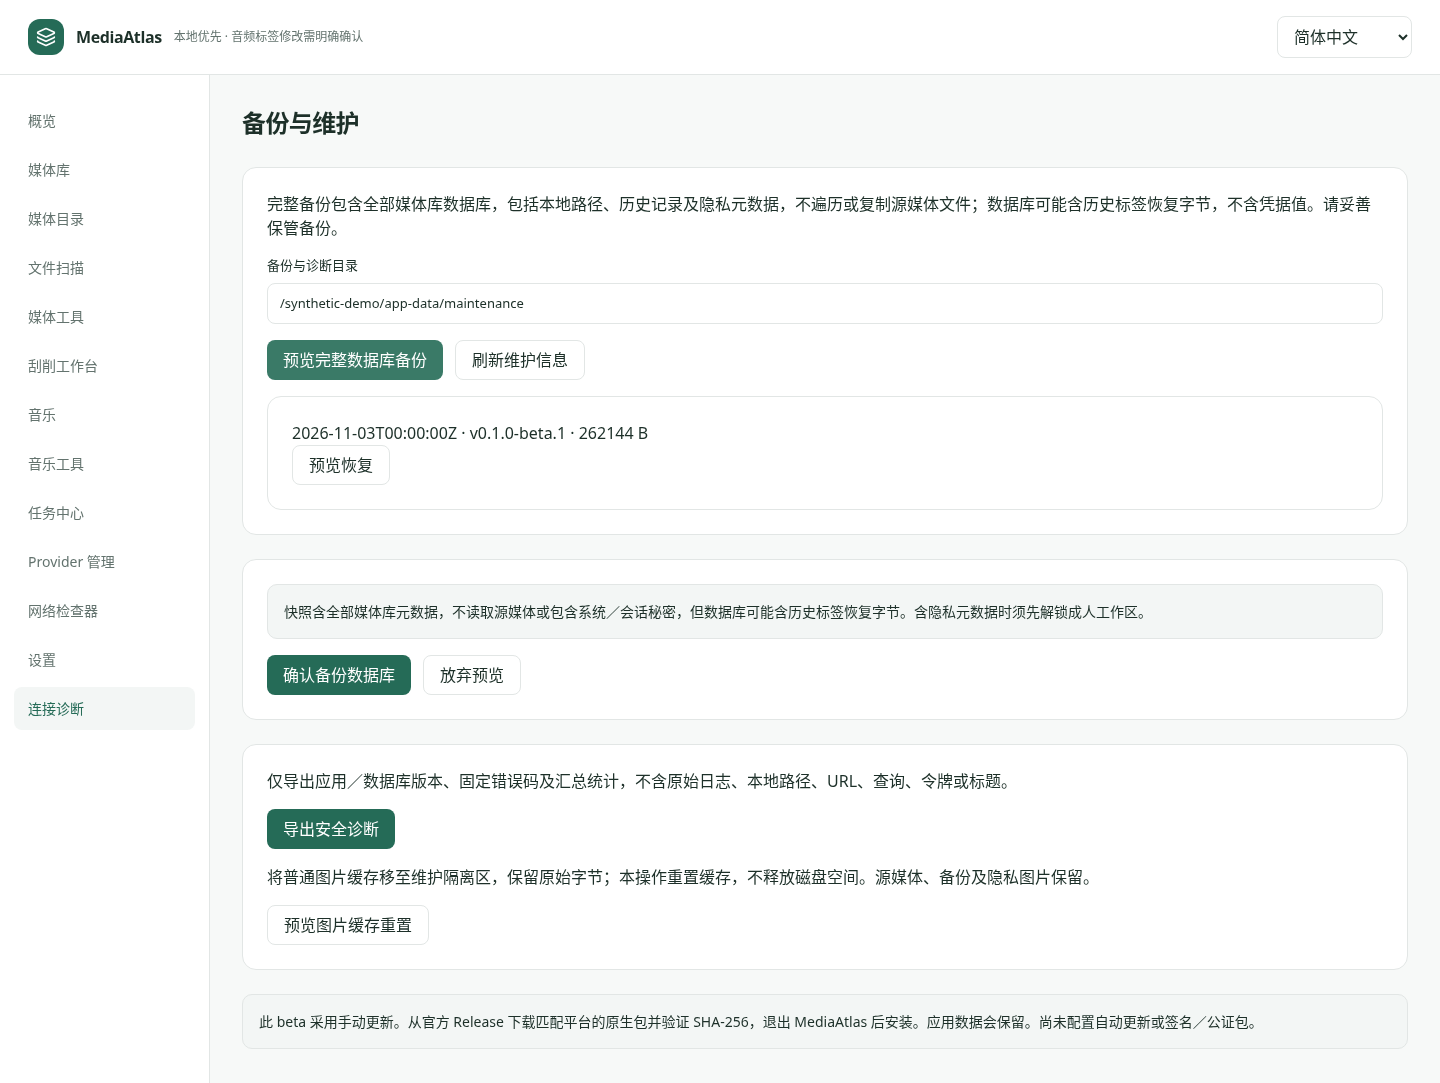
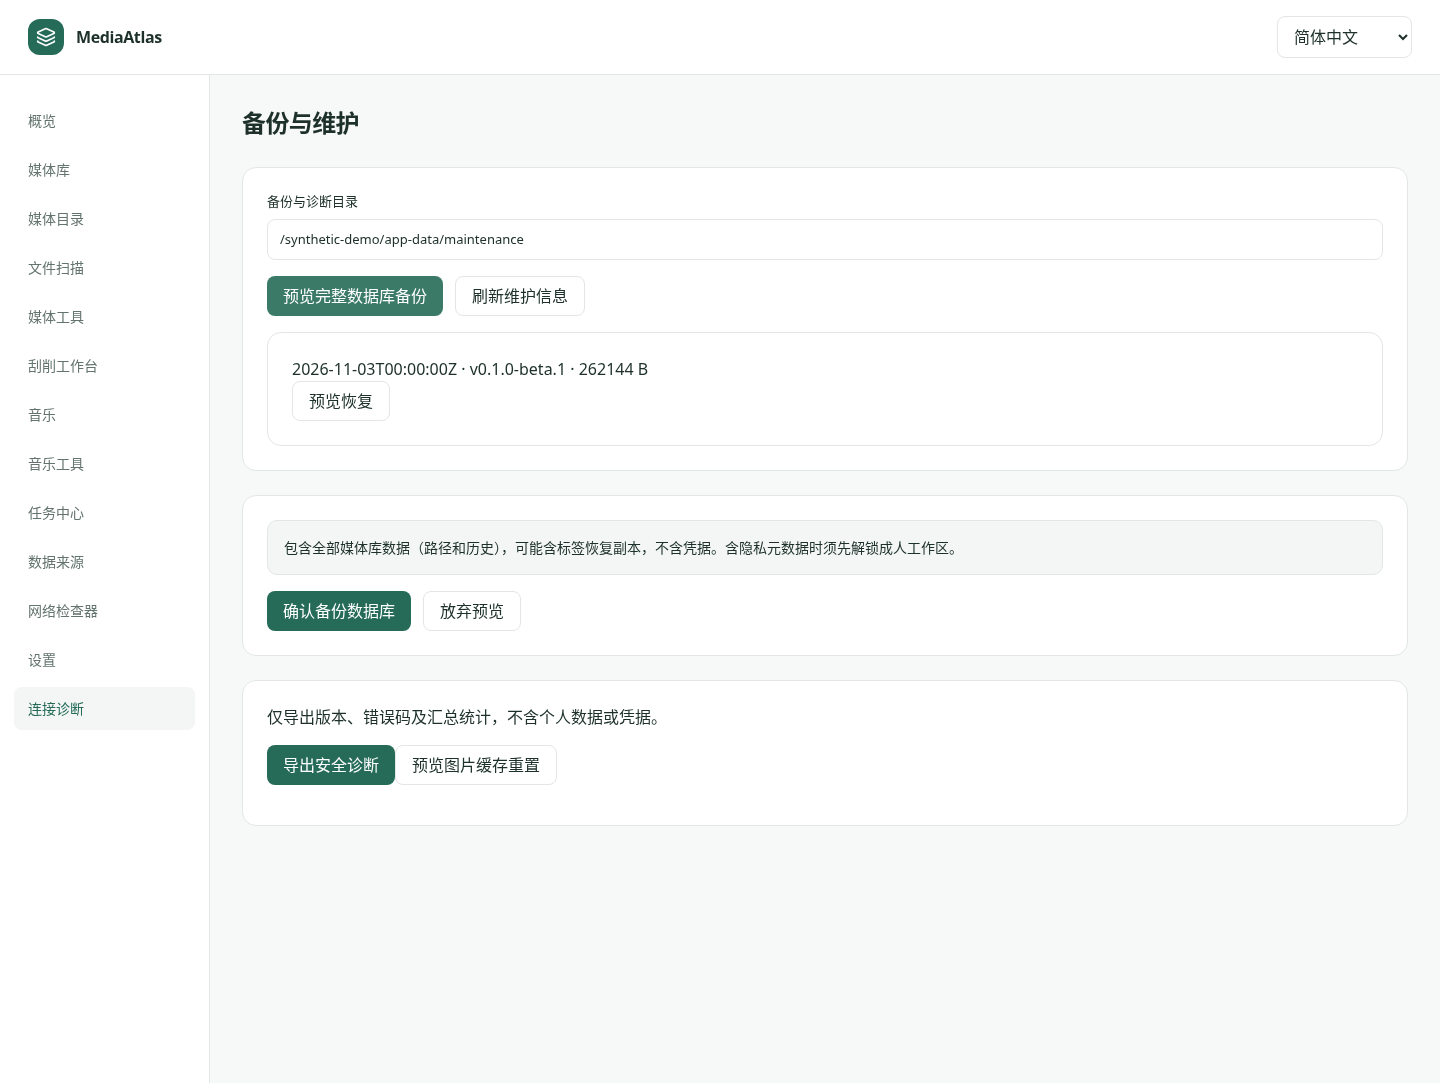
docs: refresh native and browser screenshots for concise UI

diff --git a/screenshots/README.md b/screenshots/README.md
@@ -1,35 +1,19 @@
 # MediaAtlas 0.1.0-beta.1 截图
 
-本目录的 `browser-mock-*` 图片是 **真实 Chromium 页面截图 + 明确合成的 Mock IPC 演示数据**，不是原生桌面、实际媒体扫描、安装、OS keyring 或 Provider 联网验收证据。截图由当前应用实际 React 页面渲染，未使用 ImageGen、图像修补、拼接或伪造 UI。版本 `0.1.0-beta.1`，语言 `zh-CN`，视口 1440 × 1080，长页面采用完整页面截图。
+本轮全部 10 张截图对应应用源码提交 **`d50b4dd03c15e45428c4b455f3e8755d40732a48`**，浏览器 5 张与原生 5 张均已重拍。更新后的界面已移除冗余介绍和页头副标签。截图及报告随后单独提交；生成截图会让 `screenshots/` 变更，不把该时刻整棵工作树称作 clean。
 
-所有 `Synthetic Demo` 电影、专辑、艺术家、路径和备份记录均为脚本生成，不对应用户文件；海报缺失时保留应用真实占位样式。成人入口关闭，认证状态未配置，密码输入为空。维护截图只执行合成备份预览，没有确认写入或恢复。
+| 页面 | 原生 Linux · 英文 | 浏览器 Mock · 中文 |
+| --- | --- | --- |
+| 媒体库 | [native-linux-01-library.png](native-linux-01-library.png) | [browser-mock-01-library.png](browser-mock-01-library.png) |
+| 媒体工具 | [native-linux-02-tools.png](native-linux-02-tools.png) | [browser-mock-02-tools.png](browser-mock-02-tools.png) |
+| 音乐 | [native-linux-03-music.png](native-linux-03-music.png) | [browser-mock-03-music.png](browser-mock-03-music.png) |
+| 设置 | [native-linux-04-settings.png](native-linux-04-settings.png) | [browser-mock-04-settings.png](browser-mock-04-settings.png) |
+| 备份与维护 | [native-linux-05-maintenance.png](native-linux-05-maintenance.png) | [browser-mock-05-maintenance.png](browser-mock-05-maintenance.png) |
 
-| 页面 | 实际截图 |
-| --- | --- |
-| 只读媒体库与筛选 | [browser-mock-01-library.png](browser-mock-01-library.png) |
-| 独立媒体工具与整理配置 | [browser-mock-02-tools.png](browser-mock-02-tools.png) |
-| 独立音乐媒体库 | [browser-mock-03-music.png](browser-mock-03-music.png) |
-| 来源认证、语言与隐私设置 | [browser-mock-04-settings.png](browser-mock-04-settings.png) |
-| 数据库备份预览、安全诊断与缓存维护 | [browser-mock-05-maintenance.png](browser-mock-05-maintenance.png) |
+`native-linux-*` 直接捕获 Ubuntu 22.04 容器中真实 Tauri release 应用的 X11 窗口，使用系统 WebKitGTK 4.1、DBus、Xvfb、普通 UID 1000 和独立临时应用数据目录。窗口 1440 × 1080，没有窗口管理器装饰；未禁用 WebKit sandbox 或 TLS 校验，没有 Mock IPC、调试脚本注入或图片修补。合成影片通过此前真实 Root → 扫描 → 预览 → 明确两步确认进入库，本轮复用该数据库及已经验证的备份，仅重拍界面。音乐为空状态，未虚构原生专辑记录。凭据未配置、密码为空，成人入口关闭。完成截图后使用标准 `WM_PROTOCOLS / WM_DELETE_WINDOW` 关窗，应用与 DBus session 退出码为 0。
 
-每张图片都已实际查看，确认内容非空、没有 loading/error 提示；自动脚本同时断言页面无 JavaScript 错误、无错误告警、密码为空、没有确认/执行/保存/导入调用。机器可读记录见 [browser-capture-report.json](browser-capture-report.json)。
+`browser-mock-*` 是真实 Chromium 页面截图，使用脚本生成的 `Synthetic Demo` 电影、专辑、艺术家、路径和备份响应。它们只证明浏览器渲染，不证明真实后端、OS keyring 或原生安装成功。中文视口 1440 × 1080，长页面采用完整页面截图；不显示真实用户文件或成人图像，没有确认写入、恢复、保存认证或导入调用。
 
-复现：启动当前仓库 `pnpm dev:web`（端口 1420），安装 Playwright/Chromium 后执行 `node screenshots/capture-browser.cjs`。脚本默认使用本次执行环境的 `/opt/codex/cua_node/lib/node_modules/playwright` 和 `/usr/bin/chromium`；其他环境可设置 `PLAYWRIGHT_MODULE` 和 `CHROMIUM_PATH` 指向现有安装。Mock 仅注入截图用浏览器进程，不改产品代码或真实桌面凭据。
+所有图片都已实际查看，内容非空，没有 loading 或错误告警，未使用 ImageGen、拼接或伪造 UI。模式、源码提交、二进制/图片 SHA-256 和验收边界分别见 [native-capture-report.json](native-capture-report.json) 与 [browser-capture-report.json](browser-capture-report.json)。本地原生候选不等同 GitHub Release 可用包，截图不替代 Windows/macOS 实机、媒体播放、实时 Provider 或 keyring 保存验收。
 
-## 真实原生 Linux 应用
-
-新增 `native-linux-*` 为 **真实 Tauri release 应用 + 真实 Rust/SQLite 后端** 截图。使用标准 Ubuntu 22.04 容器中的系统 WebKitGTK 4.1、DBus 和 Xvfb `:99`，以 UID 1000 运行，窗口 1440 × 1080、`en-US`。未禁用 WebKit sandbox 或 TLS 校验，没有 Mock IPC、调试脚本注入或图像修改。ImageMagick 直接捕获实际应用 X11 窗口；未运行窗口管理器，图片不含 OS 标题栏。
-
-这次使用临时独立 `XDG_DATA_HOME`。通过真实 UI 添加 `Synthetic Demo Library` → 扫描临时生成的 dummy 视频及 NFO → 查看候选 → 明确两步确认入库，得到一条 `Synthetic Demo Mountain Journey`；源字节保持原样。dummy 文件仅用于索引演示，不是可播放影片，未尝试播放。音乐页展示该真实临时库的空状态，没有植入虚构的原生专辑数据。设置页凭据未配置、输入为空，成人入口关闭。
-
-| 原生页面 | 实际截图 |
-| --- | --- |
-| 已确认的合成 NFO 资源 | [native-linux-01-library.png](native-linux-01-library.png) |
-| 真实本地文件详情与整理配置 | [native-linux-02-tools.png](native-linux-02-tools.png) |
-| 独立音乐库真实空状态 | [native-linux-03-music.png](native-linux-03-music.png) |
-| 实际来源认证设置（无凭据） | [native-linux-04-settings.png](native-linux-04-settings.png) |
-| 真实备份成功状态 | [native-linux-05-maintenance.png](native-linux-05-maintenance.png) |
-
-维护页实际执行 Preview → Confirm 生成 602,112 字节 SQLite 一致备份，界面显示 `Backup saved.`；额外核验 manifest SHA-256、`PRAGMA integrity_check=ok`、一条合成媒体记录及源文件字节保全。五张原生图片均实际查看，内容非空，没有 loading 或错误告警。详情、图片哈希与二进制 SHA-256 见 [native-capture-report.json](native-capture-report.json)。
-
-这些原生图来自当前本地尚未提交的 `0.1.0-beta.1` 候选，不能替代 GitHub Release 产物、Windows/macOS 实机、媒体播放、实时 Provider 或 keyring 认证验收。初始容器缺少 UID 1000 的 passwd 条目，DBus 曾发出认证警告；随后已建立标准普通账户，但本次未测试保存 keyring。截图完成后首次使用 `xdotool windowclose`（实际为 `XDestroyWindow`）直接毁窗，触发 GDK `BadWindow`、退出码 133，属于关闭自动化方法错误。随后使用同一临时数据目录重启真实应用，发送标准 `WM_PROTOCOLS / WM_DELETE_WINDOW` X11 ClientMessage 模拟正常关窗，应用及 DBus session **退出码 0**，进程已停止且合成数据/备份保留。这个复核不需要窗口管理器，也未修改产品或禁用 sandbox；报告保留了两次测试的准确边界。
+浏览器复现：启动 `pnpm dev:web`（端口 1420），执行 `node screenshots/capture-browser.cjs`。其他环境可设置 `PLAYWRIGHT_MODULE` 和 `CHROMIUM_PATH` 指向已安装的 Playwright/Chromium。脚本记录实际源码提交，并独立检查应用源码输入是否相对该提交发生改变。

diff --git a/docs/acceptance/phase-8.md b/docs/acceptance/phase-8.md
@@ -21,7 +21,7 @@
 
 | 检查 | 实际结果 |
 | --- | --- |
-| `pnpm check` | 通过：Biome、TypeScript、156 tests / 25 files、生产构建；主 bundle 491.98 kB |
+| `pnpm check` | 通过：Biome、TypeScript、156 tests / 25 files、生产构建；主 bundle 485.75 kB（界面精简后） |
 | `cargo fmt --all -- --check` | 通过 |
 | `cargo clippy --workspace --all-targets --locked -- -D warnings` | 通过：完整 workspace/Tauri/测试，0 warnings |
 | `cargo test --workspace --locked` | 通过：303 项，0 失败（210 infrastructure unit）；不计 0 项 doc-tests |
@@ -44,10 +44,12 @@ SQLite VM progress handler 每 4,096 指令检查取消、120 秒预算与旧 gr
 
 真实 Windows/macOS 安装/更新/卸载/默认应用打开、系统 keyring、真实 Provider 账号与可信代理仍 pending。Linux 真实标准发行环境构建、WebKit native 启动/截图按实际执行记录；浏览器 Mock UI 截图明确标注。媒体库没有内置播放器/FFmpeg runtime。测试不操作用户真实媒体。
 
-用户要求的应用截图已实际交付 [screenshots](../../screenshots/README.md)：5 页 Chromium 实际渲染与明确 Synthetic Demo/Mock IPC，逐张 view 验证非空、无 loading/error，密码为空且无执行/保存/导入。版本 0.1.0-beta.1，非原生或真实用户媒体验收；原生截图按后续真实执行补充。
[1 lines of base64/hex data omitted]
 
 Linux 本地候选实际验证：标准 Ubuntu 22.04 内使用自身 `/usr` WebKitGTK/GTK/DBus 与 glibc 2.35，不继承宿主 sysroot 环境；`.deb` 16,095,924 bytes，包内 0.1.0-beta.1/amd64，ELF x86_64、最大 GLIBC 符号需求 2.34，动态依赖系统 WebKitGTK 4.1/GTK3/libdbus。拆包没有其他 ELF/so 或浏览器引擎/FFmpeg，全部许可逐文件 SHA 校验通过。真实 dpkg 安装后，非 root 的 Tauri/WebKitGTK+Xvfb 运行、合成 NFO/临时媒体确认、备份与标准 WM_DELETE_WINDOW 退出 0 均执行；同版本重装及卸载后，专用 synthetic XDG 数据目录 15 文件的 SHA 全保持。跨版本升级未执行，不能把重装写成升级。
 
 这些证据来自明确标识的未提交本地候选，便于验证打包流程；不代表最终 source commit 的正式构建。正式 Release 仅由最终 clean tag 在四个原生 CI runner 重新构建、拆包和校验，不通过给旧候选 manifest 改 SHA 代替。历史宿主 `/usr` helper 缺失已由标准容器解决，不列为正式 deb 的依赖问题。真实 OS keyring、实时 Provider、Windows/macOS 交互式安装/升级/卸载仍 pending。
 
 LF/CRLF 专项兼容仅允许官方精确 SHA384、完整成功前缀及官方实际 schema；事前一致内部快照与事务 CAS 保全，不接受额外索引/触发器或未知历史，不修改原备份。由独立 reviewer 针对 history 表、快照置换、manifest 与候选绑定反例复核；不泛化为任意 checksum 修复。
+
+界面精简与规则已提交为候选 A `d50b4dd`：删除重复产品介绍/次级标签，保留字段名称、反馈、真实元数据及影响决策的备份/恢复/缓存/会话说明；根 `AGENTS.md` 固定六条规则。完整 `pnpm check` 仍为 156 tests / 25 files、Biome/typecheck/build 通过。P8 source `6db616a` 的 main run [41615154922](https://github.com/susanforme/MediaAtlas/actions/runs/41615154922) 已获得 Windows/macOS/Linux 全部成功；最终截图提交后的新 main CI 与 clean tag 原生分发仍须实际执行。

diff --git a/README.md b/README.md
@@ -123,4 +123,4 @@ P7 契约与验证：[组织与消费契约](docs/phase-7-contract.md)、[P7 验
 
 项目源码许可尚未指定，见 [LICENSE-STATUS.md](LICENSE-STATUS.md)；第三方许可与完整原文见 [THIRD_PARTY_NOTICES.md](THIRD_PARTY_NOTICES.md) 和随安装包附带的清单。开发夹具使用的 FFmpeg/ffprobe 不作为运行依赖或随包分发。
 
-应用截图见 [screenshots/README.md](screenshots/README.md)：真实 Chromium 渲染的合成 Mock IPC 演示，涵盖媒体库、工具、音乐、设置和备份维护；截图模式与原生验收边界逐项说明。
+应用截图见 [screenshots/README.md](screenshots/README.md)：5 张真实 Linux 原生截图及 5 张明确使用合成 Mock IPC 的浏览器截图，涵盖媒体库、工具、音乐、设置和备份维护；模式、候选源码与验收边界逐项说明。
